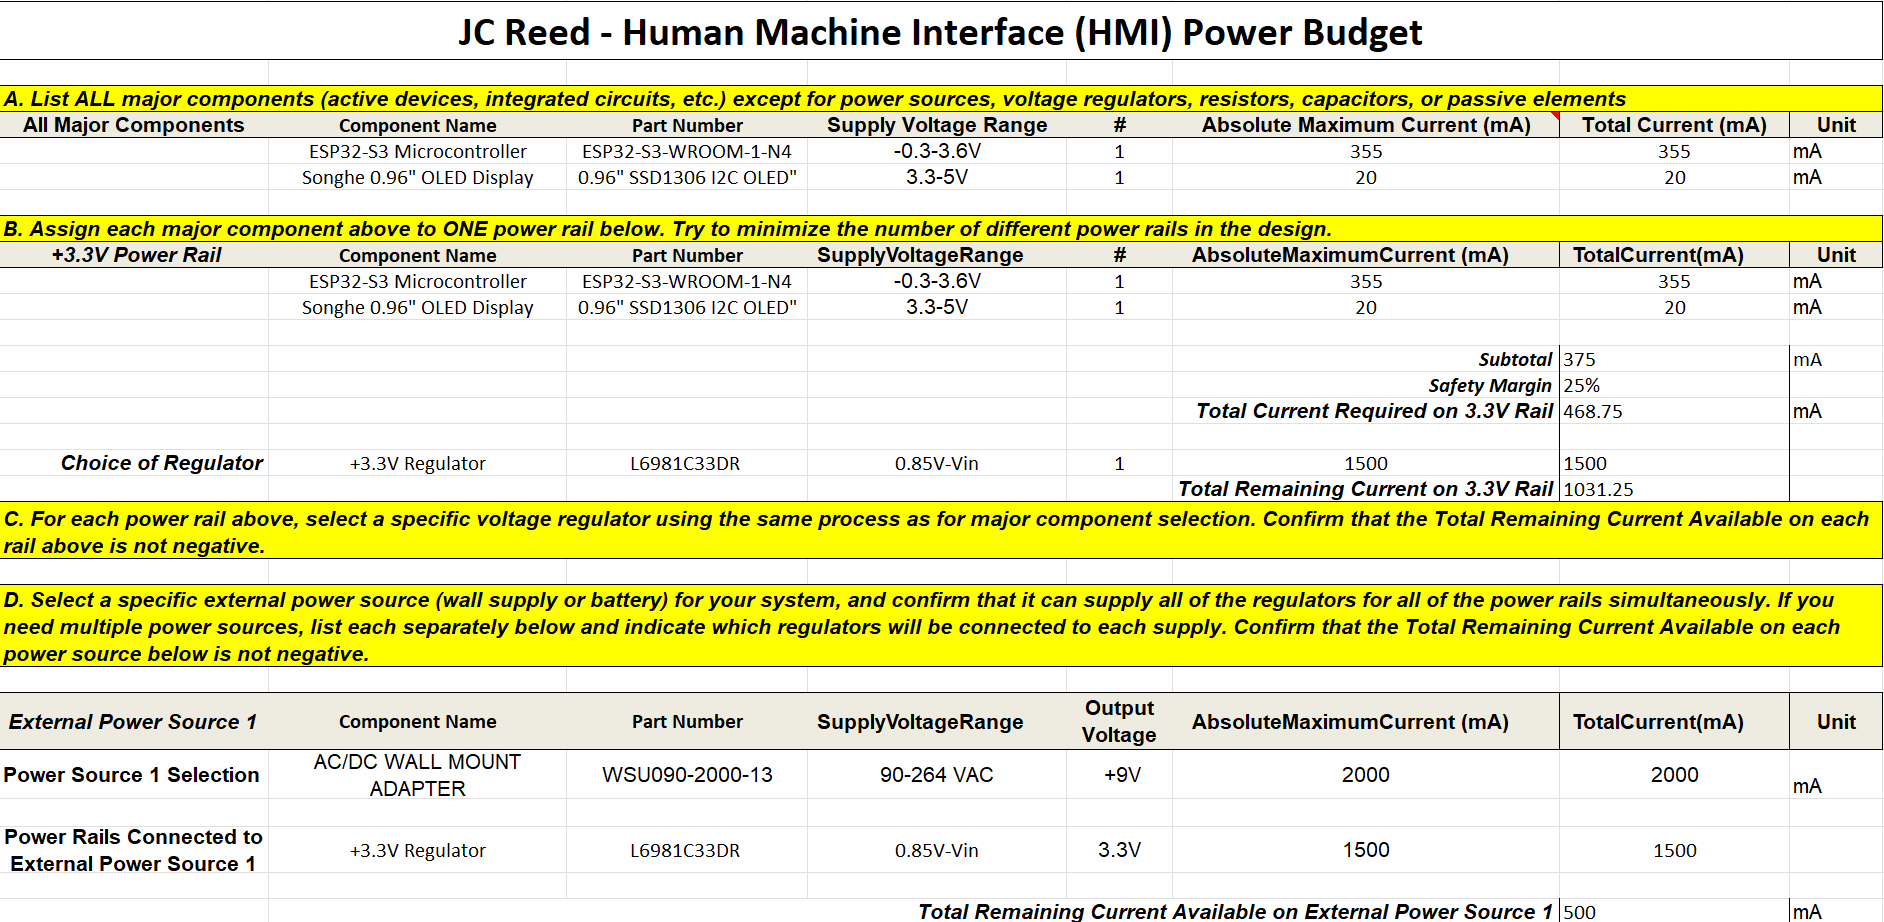
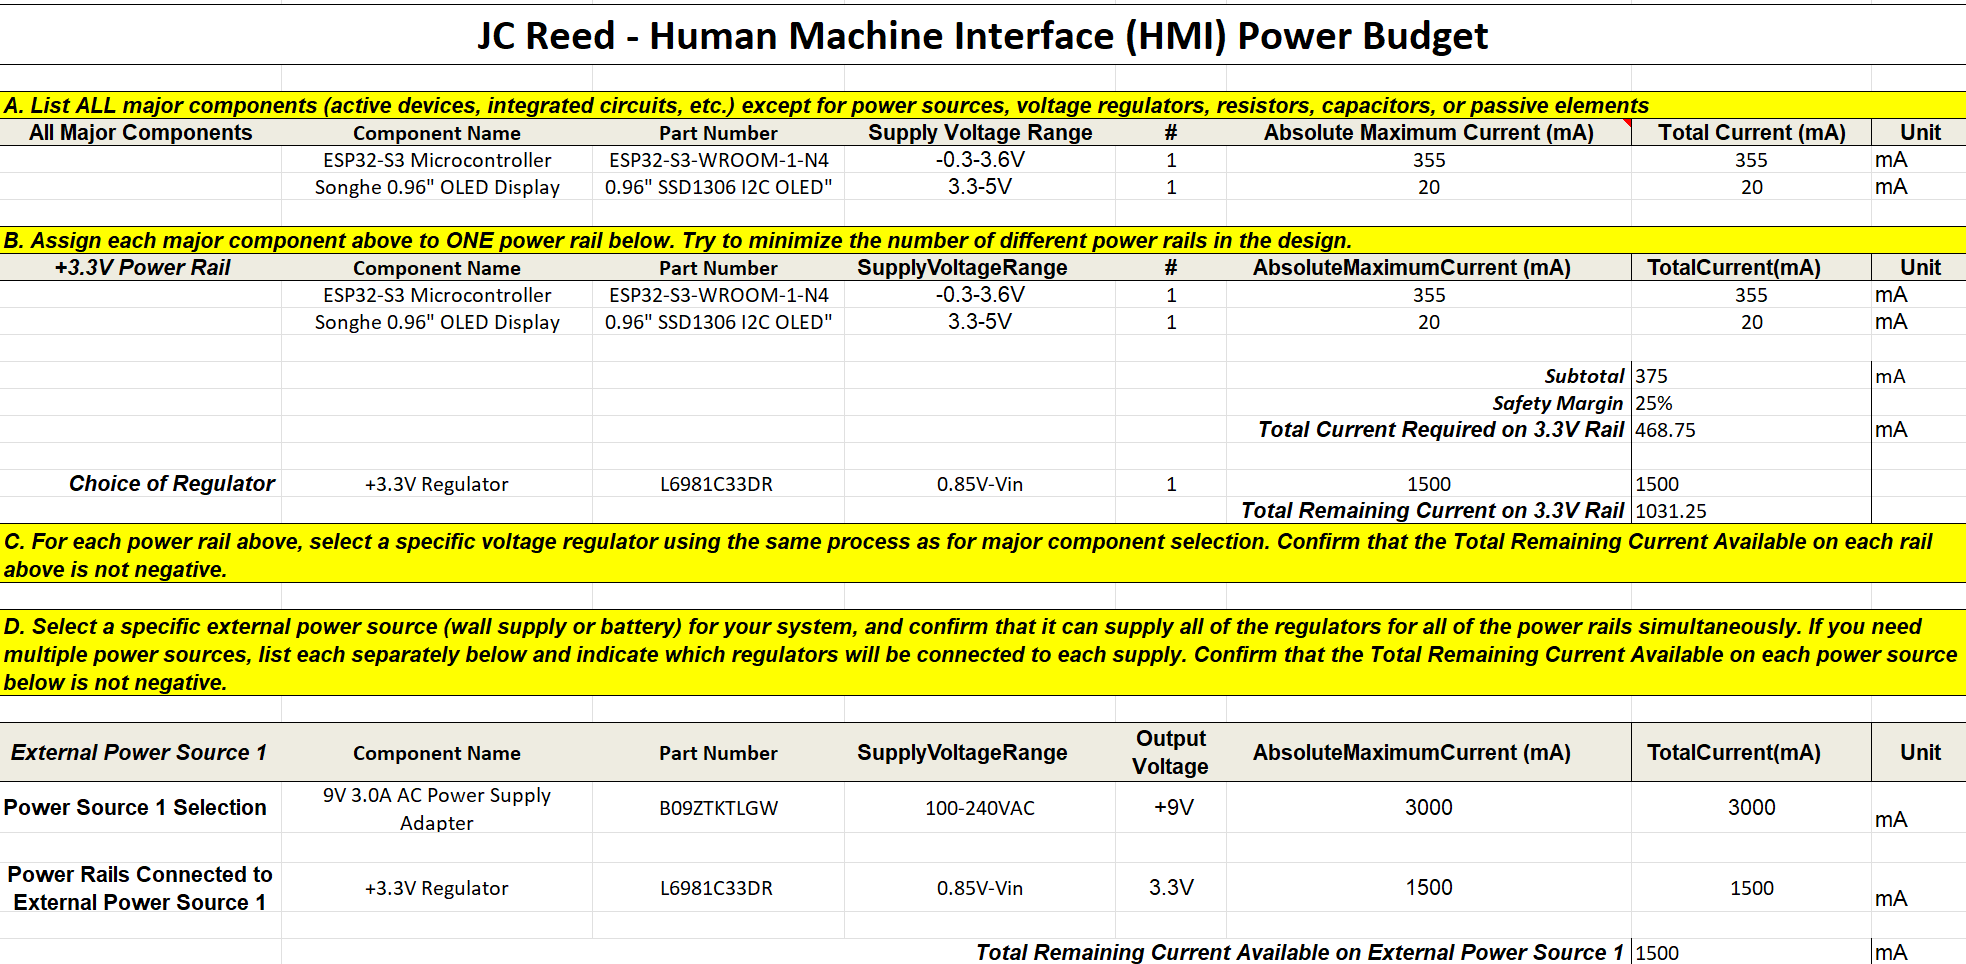
Website Update

diff --git a/docs/Application Programming Interface (API).md b/docs/Application Programming Interface (API).md
@@ -53,3 +53,153 @@ The final message type that my subsystem uses is Message Type 3: Select Path. Th
 |Min Val  | 0          | 0      |
 |Max Val  | 3          | 2      |
 |Example  | 3          | 2      |
+
+### __Handling Messages (Code)__
+
+```python <--- enables the code block below
+
+    #Import Modules
+    from machine import UART
+    from machine import Pin
+    import time
+    import uasyncio as asyncio
+
+    MAX_MESSAGE_LEN=64
+    team = [b'H',b'M',b'A',b'S']
+    id = b'H'
+    broadcast = b'X'
+
+    VALID_MESSAGE_TYPES = {
+        0x00: [0x00, 0x01, 0x02, 0x03],  # Status Code (0-3)
+        0x01: [0x00, 0x01],              # Drive Mode (0-1)
+        0x02: [0x00, 0x01, 0x02],        # Sensor Data (0-2)
+        0x03: [0x00, 0x01, 0x02]         # Path Selection (0-2)
+    }
+
+    # initialize a new UART class
+    uart = UART(2, 9600,tx=37,rx=36)
+    # run the init method with more details including baudrate and parity
+    uart.init(9600, bits=8, parity=None, stop=1) 
+    # define pin 2 as an output with name led. (Pin 2 is connected to the ESP32-WROOM dev board's onboard blue LED)
+    led = Pin(7,Pin.OUT)
+
+    def send_message(sender, receiver, msg_type, data):
+       if sender not in team: 
+          print("Error: Invalid sender ID.")
+          return
+       if receiver not in team and receiver != broadcast:
+           print("Error: Invalid receiver ID.")
+           return
+       if msg_type not in VALID_MESSAGE_TYPES or data not in VALID_MESSAGE_TYPES[msg_type]:
+           print("Error: Invalid message type or data value.")
+           return
+    
+       message = b"AZ" + sender + receiver + msg_type.to_bytes(2, 'big') + data.to_bytes(1, 'big') + b"YB"
+    
+       uart.write(message)
+       print(f"Sent: {message}")
+
+    def handle_message(message):
+       try:
+           if len(message) < 7:
+               print("ESP: Message too short, deleting.")
+               return
+        
+           if len(message) > MAX_MESSAGE_LEN:
+              print("ESP: Message too long, deleting.")
+              return
+
+          prefix = message[:2]
+          sender = message[2:3]
+          receiver = message[3:4]
+          msg_type = int.from_bytes(message[4:6], 'big')
+          data = int.from_bytes(message[6:7], 'big')
+          suffix = message[-2:]
+
+           if prefix != b"AZ" or suffix != b"YB":
+               print("ESP: Invalid message format, deleting.")
+               return
+        
+            if sender in team:
+                print(f"ESP: Valid sender: {sender.decode()}")
+            else:
+               print(f"ESP: Invalid sender {sender}, deleting.")
+               return
+        
+            if receiver in team or receiver == broadcast:
+                print(f"ESP: Valid receiver: {receiver.decode()}")
+            else:
+                print(f"ESP: Invalid receiver {receiver}, deleting.")
+                return
+        
+            if msg_type not in VALID_MESSAGE_TYPES:
+                print(f"ESP: Invalid message type {msg_type}, deleting.")
+                return
+        
+            if data not in VALID_MESSAGE_TYPES[msg_type]:
+                print(f"ESP: Invalid data value {data} for message type {msg_type}, deleting.")
+                return
+        
+            # Self-message check AFTER validation
+            if sender == id:
+                print("ESP: Deleted own message.")
+                return
+
+            # If message is valid and meant for this device
+            if receiver == id or receiver == broadcast:
+                print(f"ESP: Received message from {sender.decode()}! Type {msg_type}, Data {data}")
+                led.value(led.value() ^ 1)  # Toggle LED
+
+            # Forward message if not intended for this device
+            if receiver != id and receiver != broadcast:
+                print(f"ESP: Forwarding message to {receiver.decode()}")
+                uart.write(message)
+
+        except Exception as e:
+            print(f"ESP: Error processing message: {e}")
+    
+    async def process_rx():
+        stream = b''  # Buffer to collect incoming message
+        receiving_message = False
+
+        while True:
+            c = uart.read(1)  # Read one byte
+
+            if c:
+                stream += c  # Append byte to stream
+
+                if stream[-2:] == b'AZ':  # Message start detected
+                    receiving_message = True
+                    stream = b'AZ'  # Reset stream, keeping 'AZ'
+
+                if receiving_message and stream[-2:] == b'YB':  # Message end detected
+                    receiving_message = False
+                    handle_message(stream)  # Process the full message
+                    stream = b''  # Reset buffer for next message
+
+                if len(stream) > MAX_MESSAGE_LEN:  # Prevent oversized messages
+                    print("ESP: Message too long, deleting.")
+                    stream = b''  # Clear buffer
+                    receiving_message = False
+
+            await asyncio.sleep_ms(10)  # Small delay for async handling   
+
+    async def heartbeat():
+
+        while True:
+            #print('ESP: Sending Test Code')
+            send_message(id, b'A', 0x02, 0x01)
+            #uart.write(b'AZHX\x00\x03\x03YB')
+            await asyncio.sleep(10)
+
+    async def main():
+        while True:
+            await asyncio.sleep(1)
+
+    asyncio.create_task(process_rx())
+    asyncio.create_task(heartbeat())
+
+    try:
+        asyncio.run(main())
+    finally:
+        asyncio.new_event_loop()

diff --git a/docs/Component Selection.md b/docs/Component Selection.md
@@ -40,10 +40,10 @@ Potential Solutions | Pros | Cons
 --------------------|----------|------
 <img src="https://mm.digikey.com/Volume0/opasdata/d220001/medias/images/4838/WR9HD1333CCP-F%28R6B%29.jpg" alt="Power Supply #1" width="200" height="150"> <br> Option #1: WR9HD1333CCP-F(R6B) - 9V 12 W AC/DC External Wall Mount ($3.94) <br> [link to product](https://www.digikey.com/en/products/detail/globtek-inc/WR9HD1333CCP-F-R6B/13245472) | - Barrel Jack Output <br> - Inexpensive <br> | - 1.33A (Sufficient for ESP32, Might Need More Room for Other Peripherals) <br> - Long Shipping Time
 <img src="https://mm.digikey.com/Volume0/opasdata/d220001/medias/images/2268/MFG_WSUxxx-Series.jpg" alt="Power Supply #2" width="200" height="150"> <br> Option #2: WSU090-2000-13 - 9V 18 W AC/DC External Wall Mount ($12.15)  <br> [link to product](https://www.digikey.com/en/products/detail/triad-magnetics/WSU090-2000-13/6600197) | - Barrel Jack Output <br> - 2A Supply <br> | - Expensive <br> - Long Shipping Time <br> - Bulky Design
-<img src="https://mm.digikey.com/Volume0/opasdata/d220001/medias/images/19/MFG_VEL12-US_dist.jpg" alt="Power Supply #3" width="200" height="150"> <br> Option #3: VEL12US090-US-JA - 9V 12 W AC/DC External Wall Mount ($12.17) <br> [link to product](https://www.digikey.com/en/products/detail/xp-power/VEL12US090-US-JA/5726832) | - Barrel Jack Output <br> - Slim Design <br> | - Expensive <br> - Long Shipping Time <br> - 1.28A Supply
+<img src="https://m.media-amazon.com/images/I/31UE8SX03rS._AC_.jpg" alt="Power Supply #3" width="200" height="150"> <br> Option #3: BestCH 9V 3.0A AC Power Supply Adapter ($4.52) <br> [link to product](https://www.amazon.com/gp/product/B09ZTKTLGW/) | - Barrel Jack Output <br> - 3A Supply <br> - Provided by ASU <br> | - Bulky Design <br> - Datasheet not Provided
 
-__Choice: Option #2: WSU090-2000-13 - 9V 18 W AC/DC External Wall Mount__ <br>
-__Rationale:__ Other options simply need to be able to supply at least 1.5A as the voltage regulator chosen above has an output of 1.5A. In order for every component to function up to their potential and eliminate risk, this wall mount was selected. While it is expensive and has a long shipping time, it works well to meet project specifications.
+__Choice: Option #3: BestCH 9V 3.0A AC Power Supply Adapter__ <br>
+__Rationale:__ The rationale behind this selection is the fact that is can provide up to 3.0A of current for the subsystem. This is more than enough to allow for complete functionality. Furthermore, this component is provided by ASU and allows finances to be focused into other areas. Although this design is bulky, it does the best at meeting project requirements. 
 
 ## __Microcontroller Used: ESP32-S3-WROOM-1-N4__
 ESP Info                                      | Answer |

diff --git a/docs/Schematic & PCB Design.md b/docs/Schematic & PCB Design.md
@@ -1,0 +1,24 @@
+---
+title: Schematic & PCB Design
+---
+
+__This page is dedicated to discuss my schematic and printed circuit board (PCB) designed specifically for the Human Machine Interface.__
+
+Included in the schematic are seven different sections, each with their own responsibility to allow the HMI board to function. The PCB is a physical representation of the schematic and includes all hardware providing the necessary functionality. The functionality of these designs satisfies user needs and product requirements by including a working layout of powering a programmable LED display screen. This screen provides 'exhibit-goers' with the option to interactively select the direction the marbles should take through the inclusion of pushbuttons. The designs also allow for UART implementation, which is how the subsystem communicates to other subsystems within the team. 
+
+### __Schematic Design__
+## ![Human Machine Interface (HMI) Schematic](static/images/HMI-Schematic.png)
+
+### __Printed Circuit Board (PCB) Design__
+## ![Human Machine Interface (HMI) Printed Circuit Board](static/images/HMI-PCB.png)
+
+### __Links for High Resolution Visibility__
+- [PDF (Schematic)](https://www.dropbox.com/scl/fi/f9w1i6sscxlyywqqm48h3/IndividualSchematic-HMI-PDF.pdf?rlkey=8xb6ayctkginnebk0vwqdsbgr&st=gkm1hwtc&dl=0)
+- [PDF (PCB)]()
+- [ZIP Folder (Schematic)](https://www.dropbox.com/scl/fi/p3rfl7ne41s3101rtt6n1/Reed-Individual-Schematic-HMI.zip?rlkey=dbggk973my06dv4h1e9o1611x&st=gdkw6vrx&dl=0)
+- [ZIP Folder (PCB)]()
+
+### __Power Budget__
+![HMI Power Budget](static/images/PowerBudget.png)
+
+The power budget is extremely useful in providing viable component options that  safely operate the entire board. This process acts as confirmation and reassurance, while eliminating overall risks of damaging devices. 

diff --git a/docs/index.md b/docs/index.md
@@ -14,6 +14,6 @@ Assignment | Link
 -----|------------
 Block Diagram   | [link](https://jcmreed.github.io/Block%20Diagram/)
 Component Selection | [link](https://jcmreed.github.io/Component%20Selection/)
-Schematic Design | [link](https://jcmreed.github.io/Schematic%20Design/)
+Schematic & PCB Design | [link](https://jcmreed.github.io/Schematic%20&%20PCB%20Design/)
 Bill of Materials | [link](https://jcmreed.github.io/Bill%20of%20Materials/)
 Application Programming Interface (API) | [link](https://jcmreed.github.io/Application%20Programming%20Interface%20(API))

diff --git a/docs/Bill of Materials.md b/docs/Bill of Materials.md
@@ -5,4 +5,4 @@ title: Bill of Materials
 ![Complete Bill of Materials](static/images/completeBOM.png)
 
 ###__Link for Higher Visibility__
-- [Complete BOM (.xlsx)](https://www.dropbox.com/scl/fi/15b5x5gxkksv77hcbw27s/Reed-EGR314-Complete-BOM.xlsx?rlkey=z9n69gdm9jstwwornkeopqksd&st=4u27xv2k&dl=0)
+- [Complete BOM (.xlsx)](https://www.dropbox.com/scl/fi/w8cin3bmyotdlnoy01kcn/Reed-EGR314-Complete-BOM.xlsx?rlkey=xkdmzdeq1dt0h9pams86g0m6h&st=sqzse99a&dl=0)
